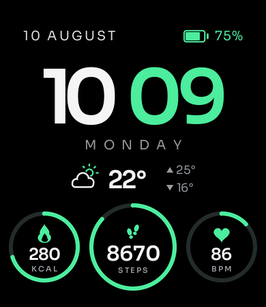
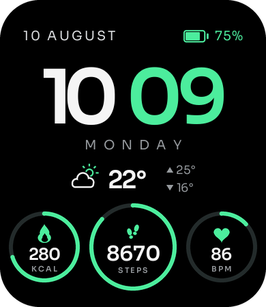
Preview with transparent rounded corners like the screen (store rejected square corners)

diff --git a/tools/make_preview.py b/tools/make_preview.py
@@ -21,6 +21,7 @@ STORE = os.path.join(ROOT, 'store')
 W, H = 390, 450
 PREVIEW = (266, 307)  # "Watchface preview image resolution" of the Bip 6 and Active 2 (Square)
 S = 4  # rings are drawn 4x larger and scaled down for smooth edges
+CORNER = 58  # radius of the screen corners (390x450), same as tools/readme_art.py; Zepp rejects square corners
 
 # sample weather for the data types of IMG_LEVEL / TEXT_IMG (11 current, 12 high, 13 low)
 TEMPS = {11: 22, 12: 25, 13: 16}
@@ -107,13 +108,23 @@ def draw(lang):
     return img
 
 
+def round_corners(img):
+    """Makes the four corners outside the rounded screen transparent; the store rejects previews with
+    square black corners. The mask is drawn 4x larger for a smooth edge."""
+    mask = Image.new('L', (W * S, H * S), 0)
+    ImageDraw.Draw(mask).rounded_rectangle([0, 0, W * S - 1, H * S - 1], radius=CORNER * S, fill=255)
+    img = img.copy()
+    img.putalpha(mask.resize((W, H), Image.LANCZOS))
+    return img
+
+
 def main():
-    img = draw('en')
+    img = round_corners(draw('en'))
     img.resize(PREVIEW, Image.LANCZOS).save(os.path.join(ASSETS, 'icon.png'), optimize=True)
     # full size for the "Watch Face Preview" of the store form (390x450, up to 1 MB); store/ stays local
     os.makedirs(STORE, exist_ok=True)
     for lang in STORE_LANGS:
-        (img if lang == 'en' else draw(lang)).convert('RGB').save(os.path.join(STORE, f'preview_{lang}.png'), optimize=True)
+        (img if lang == 'en' else round_corners(draw(lang))).save(os.path.join(STORE, f'preview_{lang}.png'), optimize=True)
     print('done:', os.path.join(ASSETS, 'icon.png'), STORE)
 
 

diff --git a/CHANGELOG.md b/CHANGELOG.md
@@ -26,6 +26,8 @@ Alle Änderungen an ORBIT, die neueste Version zuerst. Downloads gibt es auf der
   Körpergröße, 0,415 × Größe), nicht mehr fest bei 10 km – er füllt sich also wie der Schritte-Ring, in km und Meilen.
   Dafür wird der Schrittsensor nach dem Ziel gefragt, ohne Änderungs-Ereignis.
 - **12-Stunden-Format:** Uhrzeit und AM/PM sind zusammen zentriert und bleiben innerhalb des Rands von Datum und Akku.
+- **Vorschaubild mit runden Ecken:** Die Vorschau (Zifferblatt-Liste und Store) hat jetzt transparente, abgerundete
+  Ecken wie der Bildschirm – der Zepp App Store hatte die eckige Vorschau abgelehnt.
 
 ## 1.0.1 · 26.10.2026
 
